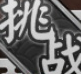
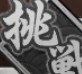
update Componet

diff --git a/tasks/Component/GeneralInvite/assets.py b/tasks/Component/GeneralInvite/assets.py
@@ -16,7 +16,7 @@ class GeneralInviteAssets:
 	# 最右边的邀请 
 	I_ADD_2 = RuleImage(roi_front=(1039,205,100,100), roi_back=(1039,205,70,100), threshold=0.8, method="Template matching", file="./tasks/Component/GeneralInvite/gi/gi_add_2.png")
 	# description 
-	I_FIRE_FAIL = RuleImage(roi_front=(1177,604,81,74), roi_back=(1177,604,81,74), threshold=0.8, method="Template matching", file="./tasks/Component/GeneralInvite/gi/gi_fire_fail.png")
+	I_FIRE_FAIL = RuleImage(roi_front=(1177,604,82,74), roi_back=(1177,604,70,66), threshold=0.8, method="Template matching", file="./tasks/Component/GeneralInvite/gi/gi_fire_fail.png")
 	# description 
 	I_FIRE = RuleImage(roi_front=(1179,602,82,88), roi_back=(1179,602,80,86), threshold=0.8, method="Template matching", file="./tasks/Component/GeneralInvite/gi/gi_fire.png")
 	# 锁定阵容的图片 
@@ -80,7 +80,7 @@ class GeneralInviteAssets:
 	# 队员默认接受邀请 
 	I_I_ACCEPT_DEFAULT = RuleImage(roi_front=(205,223,61,68), roi_back=(205,223,61,297), threshold=0.8, method="Template matching", file="./tasks/Component/GeneralInvite/gi/gi_i_accept_default.png")
 	# 不勾选 默认邀请 
-	I_I_NO_DEFAULT = RuleImage(roi_front=(41,343,36,35), roi_back=(41,343,36,35), threshold=0.8, method="Template matching", file="./tasks/Component/GeneralInvite/gi/gi_i_no_default.png")
+	I_I_NO_DEFAULT = RuleImage(roi_front=(41,343,36,36), roi_back=(41,343,36,36), threshold=0.8, method="Template matching", file="./tasks/Component/GeneralInvite/gi/gi_i_no_default.png")
 	# 勾选 默认邀请 
 	I_I_DEFAULT = RuleImage(roi_front=(41,342,41,39), roi_back=(41,342,41,39), threshold=0.8, method="Template matching", file="./tasks/Component/GeneralInvite/gi/gi_i_default.png")
 	# description 
